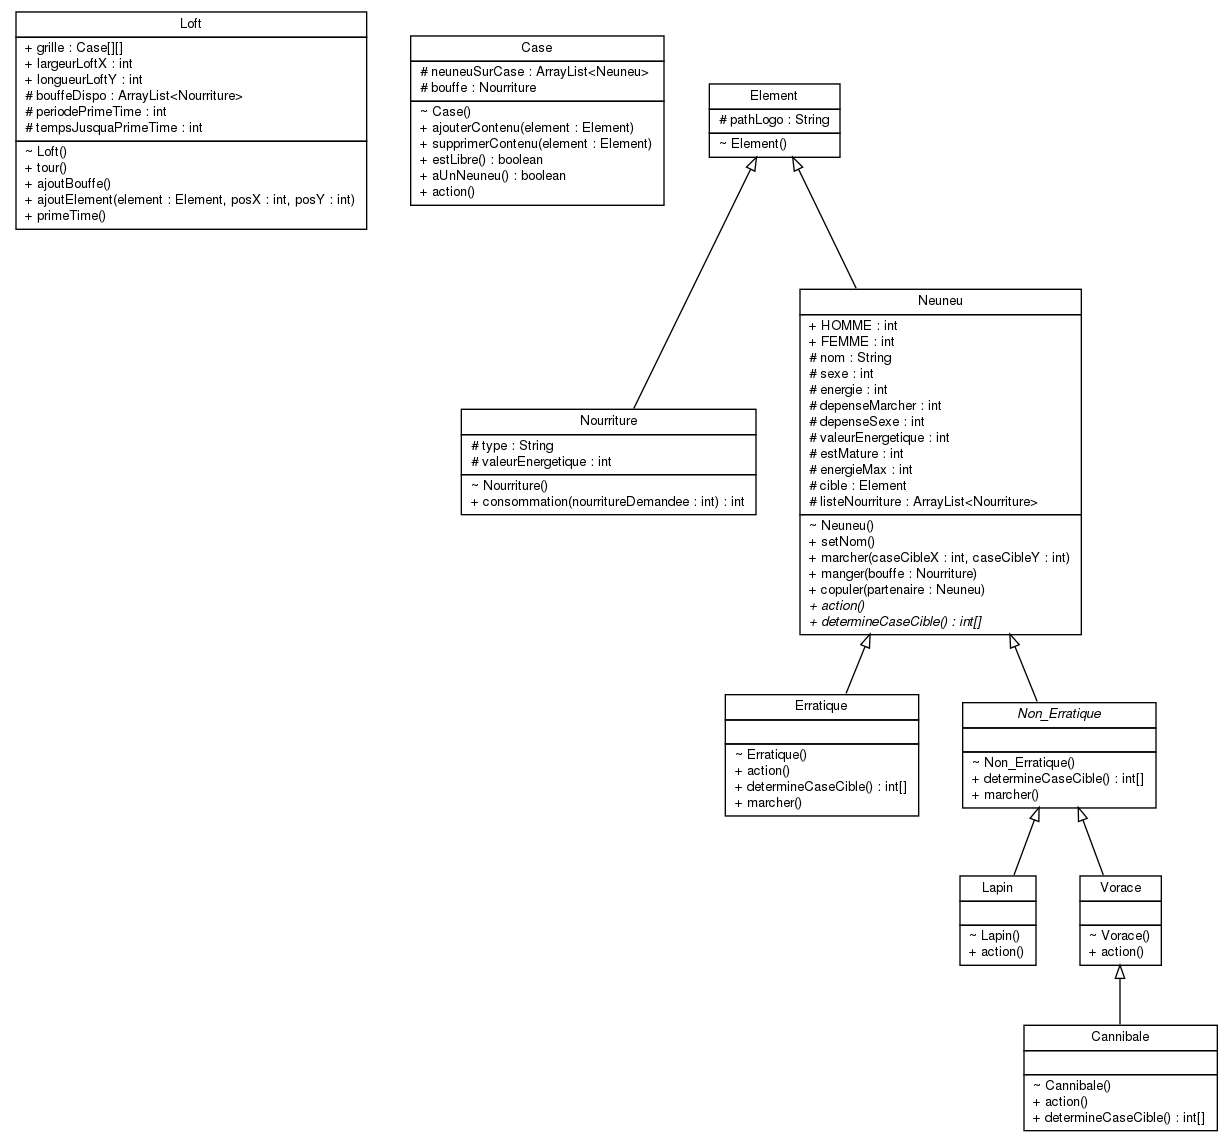
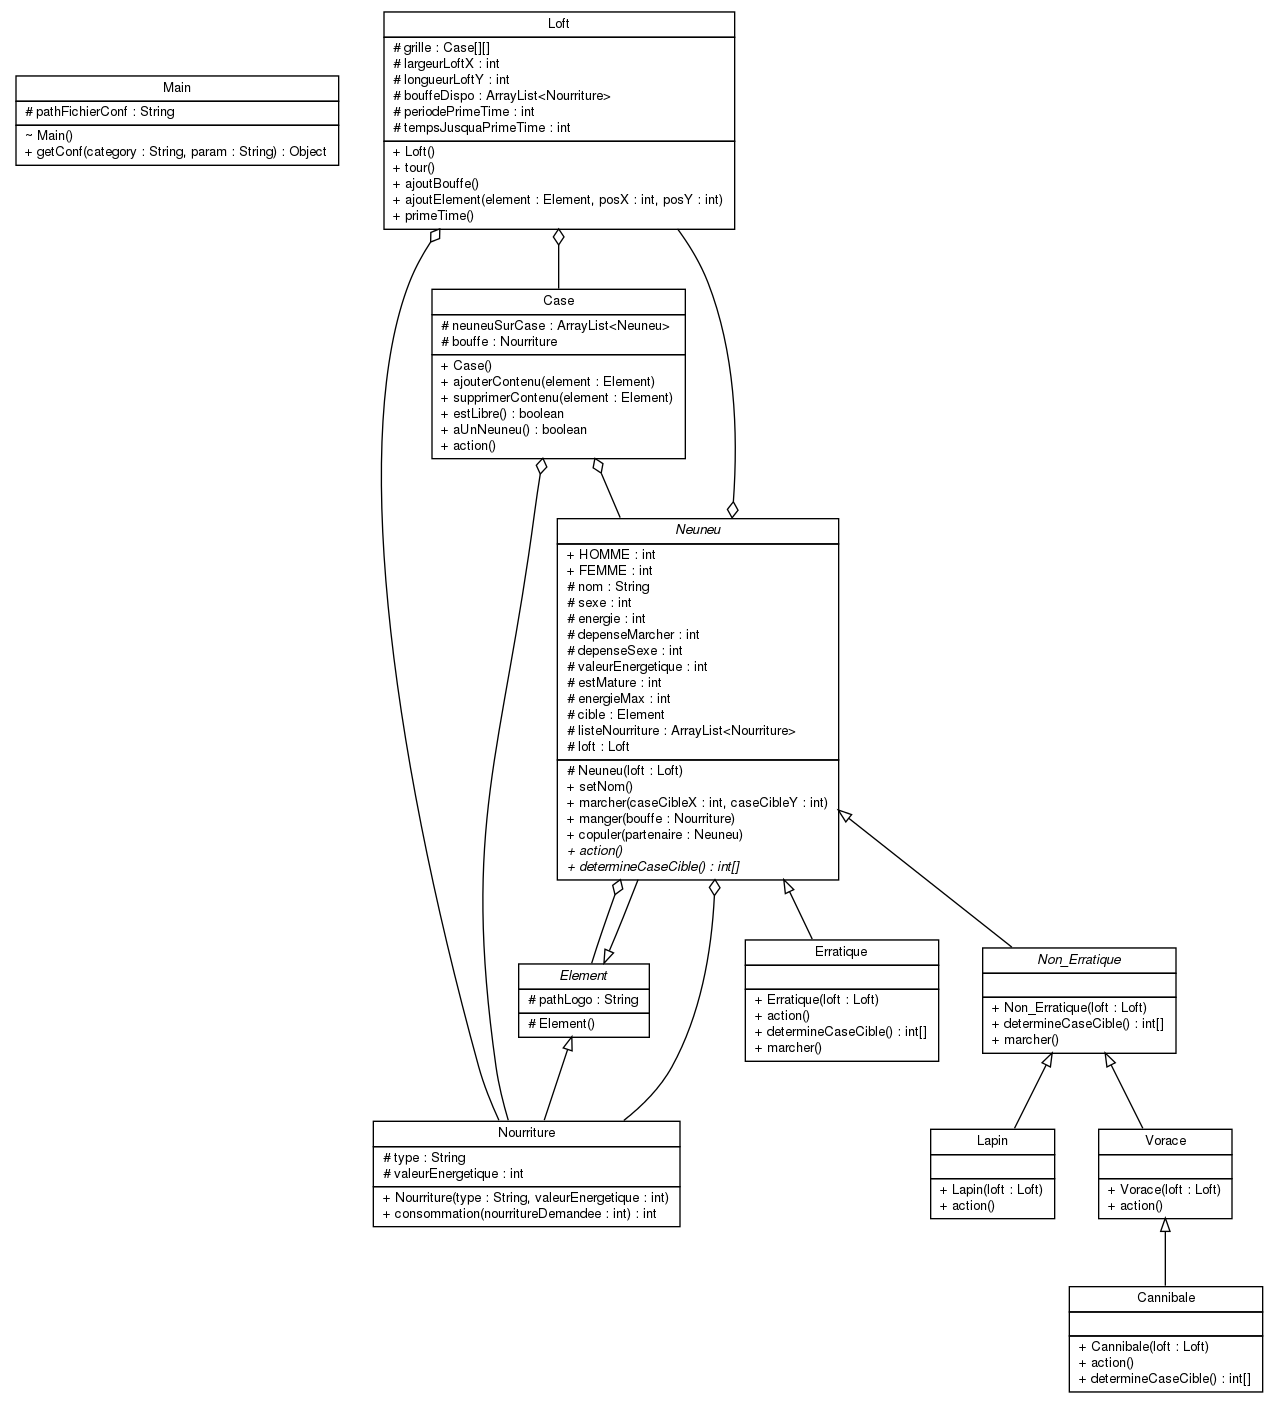
Nouvelle version du schéma

diff --git a/Schema.java b/Schema.java
@@ -3,13 +3,29 @@ import java.util.*;
 /**
  * @opt all
  */
+class Main {
+	protected String pathFichierConf;
+	
+	public static Object getConf(String category, String param) {}
+}
+
+/**
+ * @opt all
+ * @has "" - "" Case
+ * @has "" - "" Nourriture
+ */
 class Loft {
-	public static Case[][] grille;
-	public static int largeurLoftX;
-	public static int longueurLoftY;
+	protected Case[][] grille;
+	protected int largeurLoftX;
+	protected int longueurLoftY;
 	protected ArrayList<Nourriture> bouffeDispo;
 	protected int periodePrimeTime;
 	protected int tempsJusquaPrimeTime;
+	
+	public Loft() {
+		// getConf() : longueur, largeur, listeBouffe, périodePrimeTime
+	}
+	
 	public void tour() {
 		// Déplacement + Action + PrimeTime
 	}
@@ -27,10 +43,15 @@ class Loft {
 
 /**
  * @opt all
+ * @has "" - "" Neuneu
+ * @has "" - "" Nourriture
  */
 class Case {
 	protected ArrayList<Neuneu> neuneuSurCase;
 	protected Nourriture bouffe;
+	
+	public Case() {}
+	
 	public void ajouterContenu(Element element) {}
 	public void supprimerContenu(Element element) {}
 	public boolean estLibre() {}
@@ -43,8 +64,12 @@ class Case {
 /**
  * @opt all
  */
-class Element {
+abstract class Element {
 	protected String pathLogo;
+	
+	protected Element() {
+		// Lire pathLogo fichier conf
+	}
 }
 
 /**
@@ -53,6 +78,9 @@ class Element {
 class Nourriture extends Element {
 	protected String type;
 	protected int valeurEnergetique;
+	
+	public Nourriture(String type, int valeurEnergetique) {}
+	
 	public int consommation(int nourritureDemandee) {
 		// Renvoie la quantité de nourriture maxi possible
 	}
@@ -60,8 +88,11 @@ class Nourriture extends Element {
 
 /**
  * @opt all
+ * @has "" - "" Loft
+ * @has "" - "" Nourriture
+ * @has "" - "" Element
  */
-class Neuneu extends Element {
+abstract class Neuneu extends Element {
 	public static int HOMME = 1;
 	public static int FEMME = 0;
 	
@@ -71,10 +102,16 @@ class Neuneu extends Element {
 	protected int depenseMarcher;
 	protected int depenseSexe;
 	protected int valeurEnergetique;
-	protected int estMature = 4;							// Décrémente à chaque tour. Peut copuler à 0.
+	protected int estMature;							// Décrémente à chaque tour. Peut copuler à 0.
 	protected int energieMax;
 	protected Element cible;
 	protected ArrayList<Nourriture> listeNourriture;
+	protected Loft loft;
+	
+	protected Neuneu(Loft loft) {
+		// Appelle setNom()
+		// Sexe aléatoire 
+	}
 	
 	public void setNom() {}
 	public void marcher(int caseCibleX, int caseCibleY) {}
@@ -88,6 +125,12 @@ class Neuneu extends Element {
  * @opt all
  */
 class Erratique extends Neuneu {
+	public Erratique(Loft loft) {
+		super(loft);
+		// Energie = EnergieMax
+		// EnergieMax, depenseMrcher, depenseSexe, Valeurenergetique, estMature, listeBouffe : Lire fichier conf
+	}
+	
 	public void action() {}
 	public int[] determineCaseCible() {}
 	public void marcher() {
@@ -100,6 +143,13 @@ class Erratique extends Neuneu {
  */
 abstract class Non_Erratique extends Neuneu {
 	public int[] determineCaseCible() {}
+	
+	public Non_Erratique(Loft loft) {
+		super(loft);
+		// Energie = EnergieMax
+		// EnergieMax, depenseMrcher, depenseSexe, Valeurenergetique, estMature, listeBouffe : Lire fichier conf
+	}
+	
 	public void marcher() {
 		// Appelle determineCaserCible(), puis marcher(X, Y) avec la position déterminée
 	}
@@ -109,6 +159,12 @@ abstract class Non_Erratique extends Neuneu {
  * @opt all
  */
 class Lapin extends Non_Erratique {
+	public Lapin(Loft loft) {
+		super(loft);
+		// Energie = EnergieMax
+		// EnergieMax, depenseMrcher, depenseSexe, Valeurenergetique, estMature, listeBouffe : Lire fichier conf
+	}
+	
 	public void action() {}
 }
 
@@ -116,6 +172,12 @@ class Lapin extends Non_Erratique {
  * @opt all
  */
 class Vorace extends Non_Erratique {
+	public Vorace(Loft loft) {
+		super(loft);
+		// Energie = EnergieMax
+		// EnergieMax, depenseMrcher, depenseSexe, Valeurenergetique, estMature, listeBouffe : Lire fichier conf
+	}
+	
 	public void action() {}
 }
 
@@ -123,6 +185,12 @@ class Vorace extends Non_Erratique {
  * @opt all
  */
 class Cannibale extends Vorace {
+	public Cannibale(Loft loft) {
+		super(loft);
+		// Energie = EnergieMax
+		// EnergieMax, depenseMrcher, depenseSexe, Valeurenergetique, estMature, listeBouffe : Lire fichier conf
+	}
+	
 	public void action() {}
 	public int[] determineCaseCible() {}
 }
